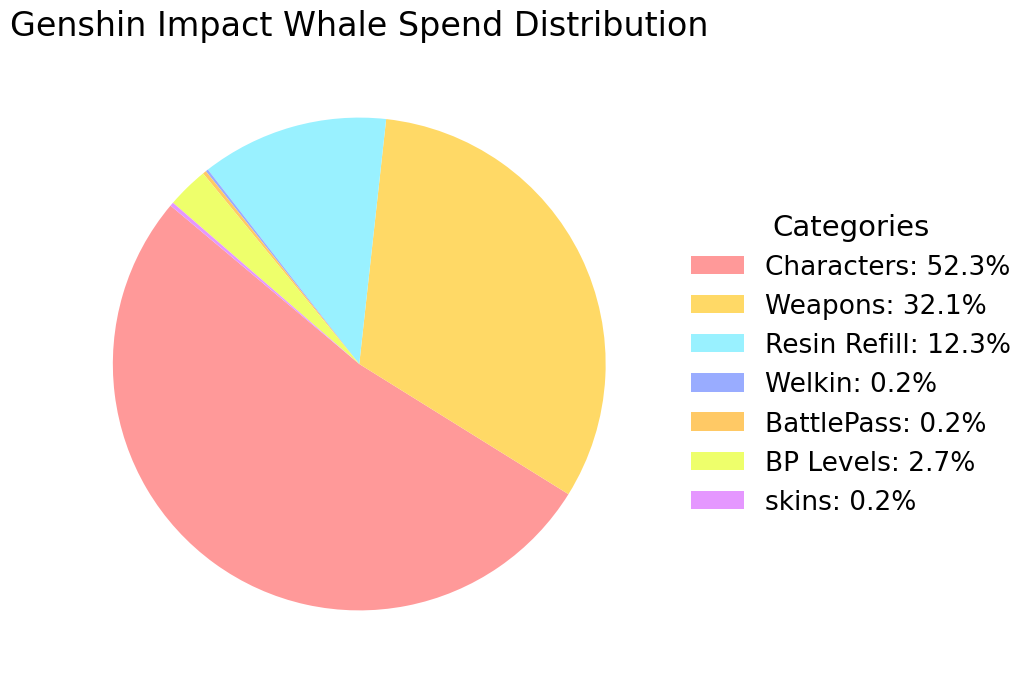
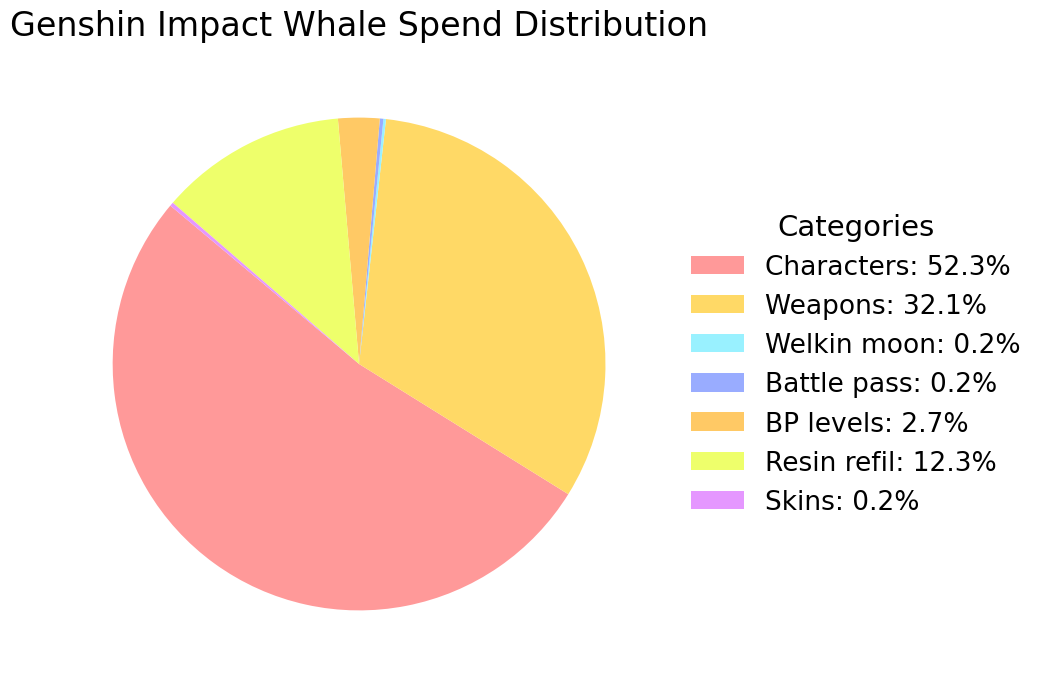
fix a bug

diff --git a/update_readme.py b/update_readme.py
@@ -100,12 +100,12 @@ The result represents a theoretical maximum and deterministic cost, not an avera
 
     def generate_table(self):
         ret = []
-        ret.append("| Type | Spend (EUR) | Spend (USD) | Share |")
-        ret.append("| :--- | :--- | :--- | :--- |")
+        ret.append('| Type | Spend (EUR) | Spend (USD) | Share |')
+        ret.append('| :--- | :--- | :--- | :--- |')
         for i in range(0, len(self.data)):
-            ret.append(f"|{self.data["tables"][i]}|{self.data["spend"][i] * self.euro_rate}|{float(self.data["spend"][i])} | in progress |")
-        ret.append("| |")
-        ret.append(f"| **Total** | **{sum(self.data['spend']) * self.euro_rate} EUR** |{sum(self.data['spend'])}** USD** | **100%** |")
+            ret.append(f'|{self.data["tables"][i]}|{self.data["spend"][i] * self.euro_rate}|{float(self.data["spend"][i])} | in progress |')
+        ret.append('| |')
+        ret.append(f'| **Total** | **{sum(self.data["spend"]) * self.euro_rate} EUR** |{sum(self.data['spend'])}** USD** | **100%** |')
 
         self.table = ""
         for r in ret:

diff --git a/README.md b/README.md
@@ -20,18 +20,10 @@ The result represents a theoretical maximum and deterministic cost, not an avera
 
 | Type | Spend (EUR) | Spend (USD) | Share |
 | :--- | :--- | :--- | :--- |
-| All C6 characters | 91557.38 EUR | 107689.23 USD | 52.3% |
-| All R5 weapons | 56277.61 EUR | 66193.38 USD | 32.1% |
-| Welkin Moon | 288.49 EUR | 339.32 USD | 0.2% |
-| Battle Pass | 407.69 EUR | 479.52 USD | 0.2% |
-| Battle Pass Level Up | 4760.64 EUR | 5599.44 USD | 2.7% |
-| Resin Refill | 21507.91 EUR | 25297.47 USD | 12.3% |
-| All skins | 425.06 EUR | 499.95 USD | 0.2% |
-| |
-| **Total** | **175224.78 EUR** | **206098.31 USD** | **100%** |
 |All C6 characters|104458.55309999999|107689.23 | in progress |
 |All R5 weapons|64207.578599999986|66193.37999999999 | in progress |
 |Welkin moon|329.1404|339.32 | in progress |
 |Battle pass|465.13439999999997|479.52 | in progress |
 | |
 | **Total** | **199915.3607 EUR** |206098.31** USD** | **100%** |
+
